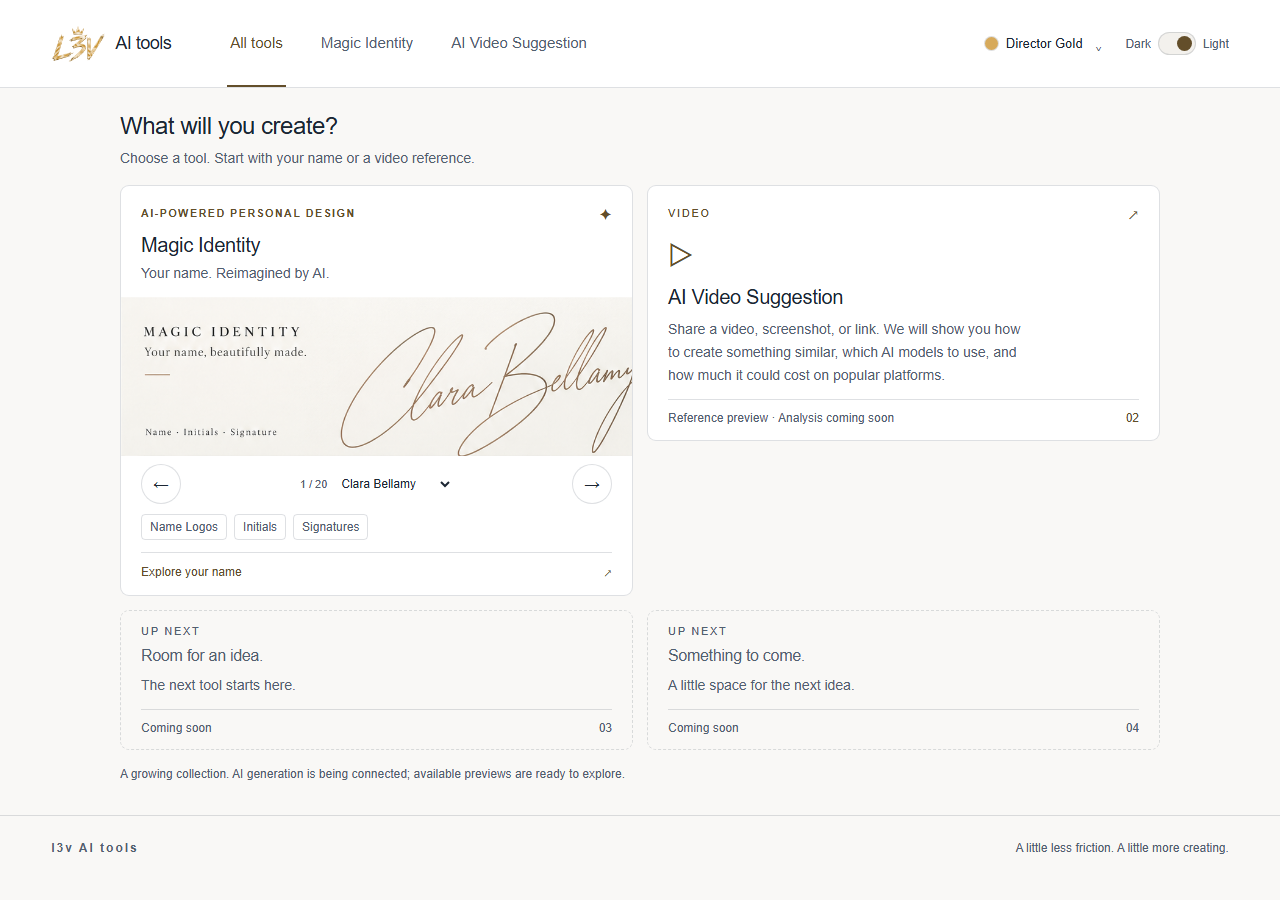
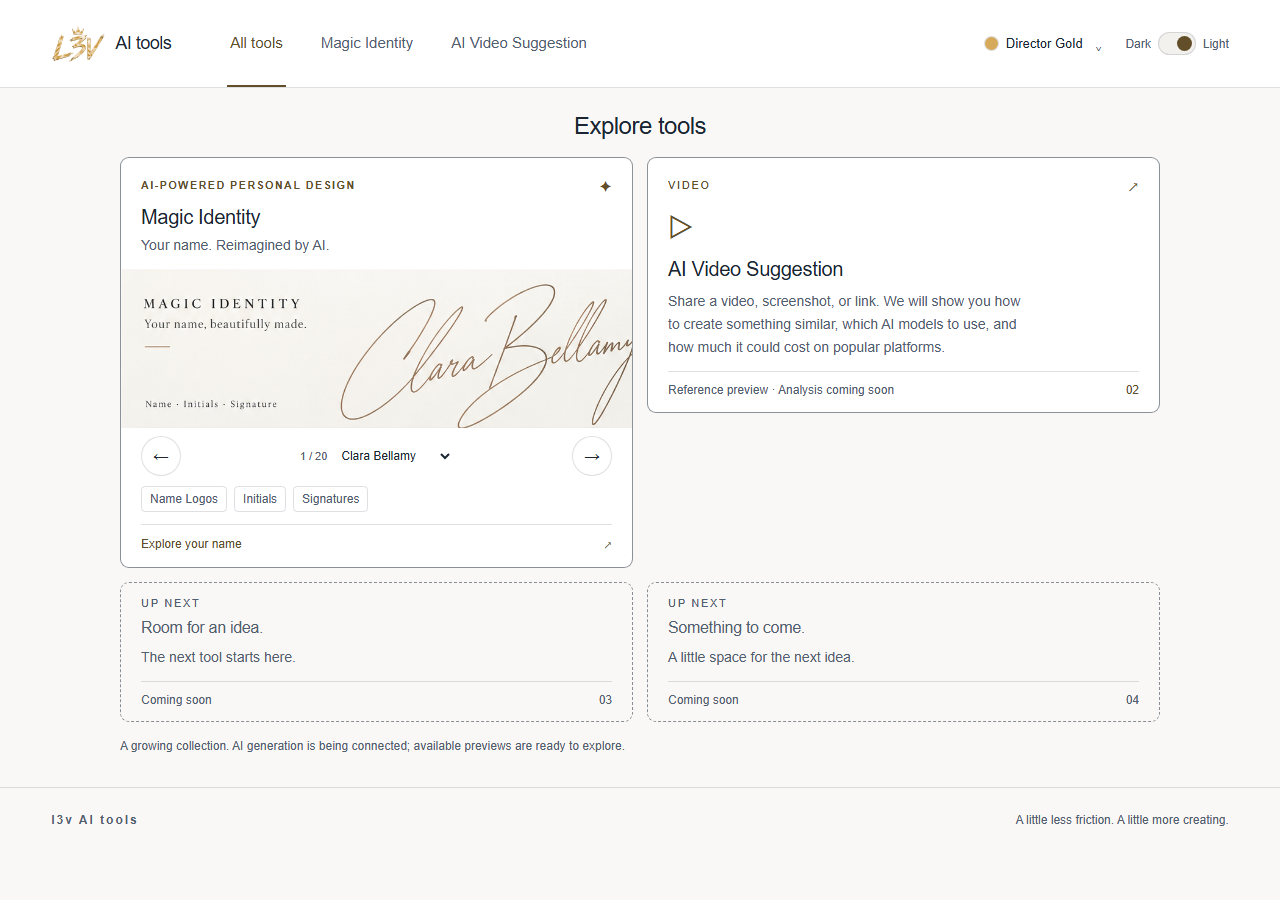
Use a centered Explore tools heading

diff --git a/tools-website/src/appearance.css b/tools-website/src/appearance.css
@@ -31,3 +31,4 @@ body{background:var(--background);color:var(--foreground)}.topbar,.skip{backgrou
 #home-panel{margin:24px auto 30px}.landing-intro{margin-bottom:16px;max-width:none}.landing-intro .eyebrow{display:none}.landing-intro h1{font-size:24px;line-height:1.2;letter-spacing:-.5px;margin:0}.landing-intro>p:last-child{font-size:14px;line-height:1.5;margin:7px 0 0}.landing-intro br{display:none}
 .tool-tiles{margin-top:16px;gap:14px;align-items:start}.tool-tile{min-height:0;padding:17px 20px 15px}.tool-tile h2,.identity-carousel h2{font-size:20px;letter-spacing:-.3px}.identity-carousel h2{margin:10px 0 5px}.tool-tile>p{font-size:14px;margin-bottom:12px}.tile-sample{font-size:32px;margin:12px 0}.video-sample{font-size:32px}.tile-variations{margin-bottom:12px}.tile-bottom{padding-top:11px}.concept-viewport{margin-left:-20px;margin-right:-20px;min-height:0}.concept-controls{margin:8px 0 10px}.empty-tool{padding:14px 20px}.empty-tool .tile-sample{display:none}.empty-tool h2{font-size:16px;margin-top:10px}.empty-tool .tile-bottom{margin-top:0}.landing-note{margin-top:14px}
 @media(max-width:620px){#home-panel{margin-top:18px;padding:0 16px}.landing-intro h1{font-size:22px}.tool-tiles{gap:12px}.tool-tile{min-height:0;padding:15px 16px}.concept-viewport{margin-left:-16px;margin-right:-16px}.identity-ai-label{font-size:10px;letter-spacing:1px}}
+.landing-intro{text-align:center}

diff --git a/tools-website/src/components/Home.jsx b/tools-website/src/components/Home.jsx
@@ -1,7 +1,7 @@
 import IdentityCarousel from './IdentityCarousel.jsx';
 export default function Home({hidden}) {
   return <section id="home-panel" aria-labelledby="home-title" hidden={hidden}>
-    <div className="landing-intro"><p className="eyebrow">L3V AI TOOLS</p><h1 id="home-title">What will you create?</h1><p>Choose a tool. Start with your name or a video reference.</p></div>
+    <div className="landing-intro"><h1 id="home-title">Explore tools</h1></div>
     <div className="tool-tiles">
       <IdentityCarousel />
       <a className="tool-tile" href="#video"><div className="tile-top"><span className="tile-category">VIDEO</span><span aria-hidden="true">↗</span></div><span className="tile-sample video-sample" aria-hidden="true">▷</span><h2>AI Video Suggestion</h2><p>Share a video, screenshot, or link. We will show you how to create something similar, which AI models to use, and how much it could cost on popular platforms.</p><div className="tile-bottom"><span>Reference preview · Analysis coming soon</span><span className="tile-number">02</span></div></a>
@@ -9,6 +9,7 @@ export default function Home({hidden}) {
     </div><p className="landing-note">A growing collection. AI generation is being connected; available previews are ready to explore.</p>
   </section>;
 }
+
 
 
 
